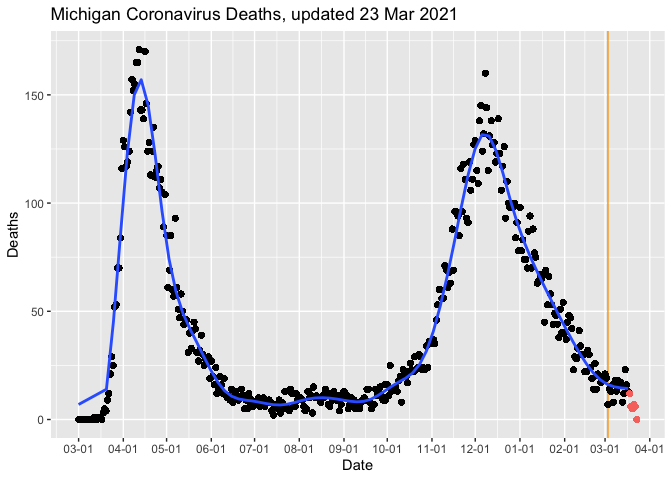
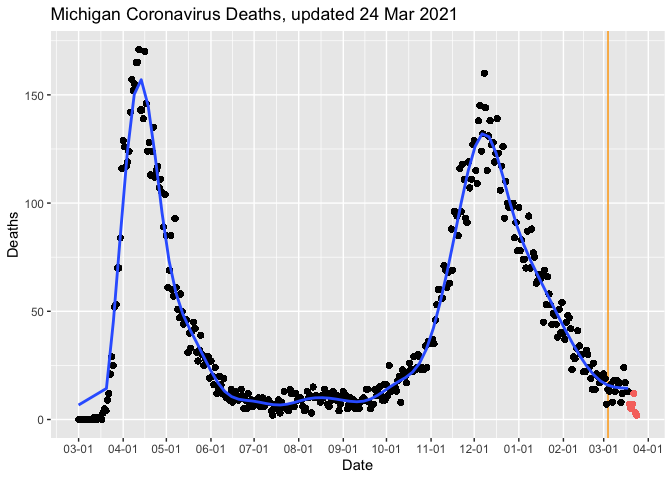
Mar-25 2021 14:36 update

diff --git a/MiCorona.md b/MiCorona.md
@@ -1,7 +1,7 @@
 Michigan COVID Data
 ================
 Adam D. DenHaan
-Mar 24, 2021
+Mar 25, 2021
 
 ``` python
 from urllib.request import urlopen
@@ -34,7 +34,7 @@ mi_data = readxl::read_excel("data/covid.xlsx")
 glimpse(mi_data)
 ```
 
-    ## Rows: 68,298
+    ## Rows: 68,475
     ## Columns: 8
     ## $ COUNTY            <chr> "Alcona", "Alcona", "Alcona", "Alcona", "Alcona", "A…
     ## $ Date              <dttm> 2020-03-01, 2020-03-02, 2020-03-03, 2020-03-04, 202…
@@ -43,7 +43,7 @@ glimpse(mi_data)
     ## $ Deaths            <dbl> 0, 0, 0, 0, 0, 0, 0, 0, 0, 0, 0, 0, 0, 0, 0, 0, 0, 0…
     ## $ Cases.Cumulative  <dbl> 0, 0, 0, 0, 0, 0, 0, 0, 0, 0, 0, 0, 0, 0, 0, 0, 0, 0…
     ## $ Deaths.Cumulative <dbl> 0, 0, 0, 0, 0, 0, 0, 0, 0, 0, 0, 0, 0, 0, 0, 0, 0, 0…
-    ## $ Updated           <dttm> 2021-03-23 13:30:00, 2021-03-23 13:30:00, 2021-03-2…
+    ## $ Updated           <dttm> 2021-03-24 13:08:01, 2021-03-24 13:08:01, 2021-03-2…
 
 Wrangle Data:
 
